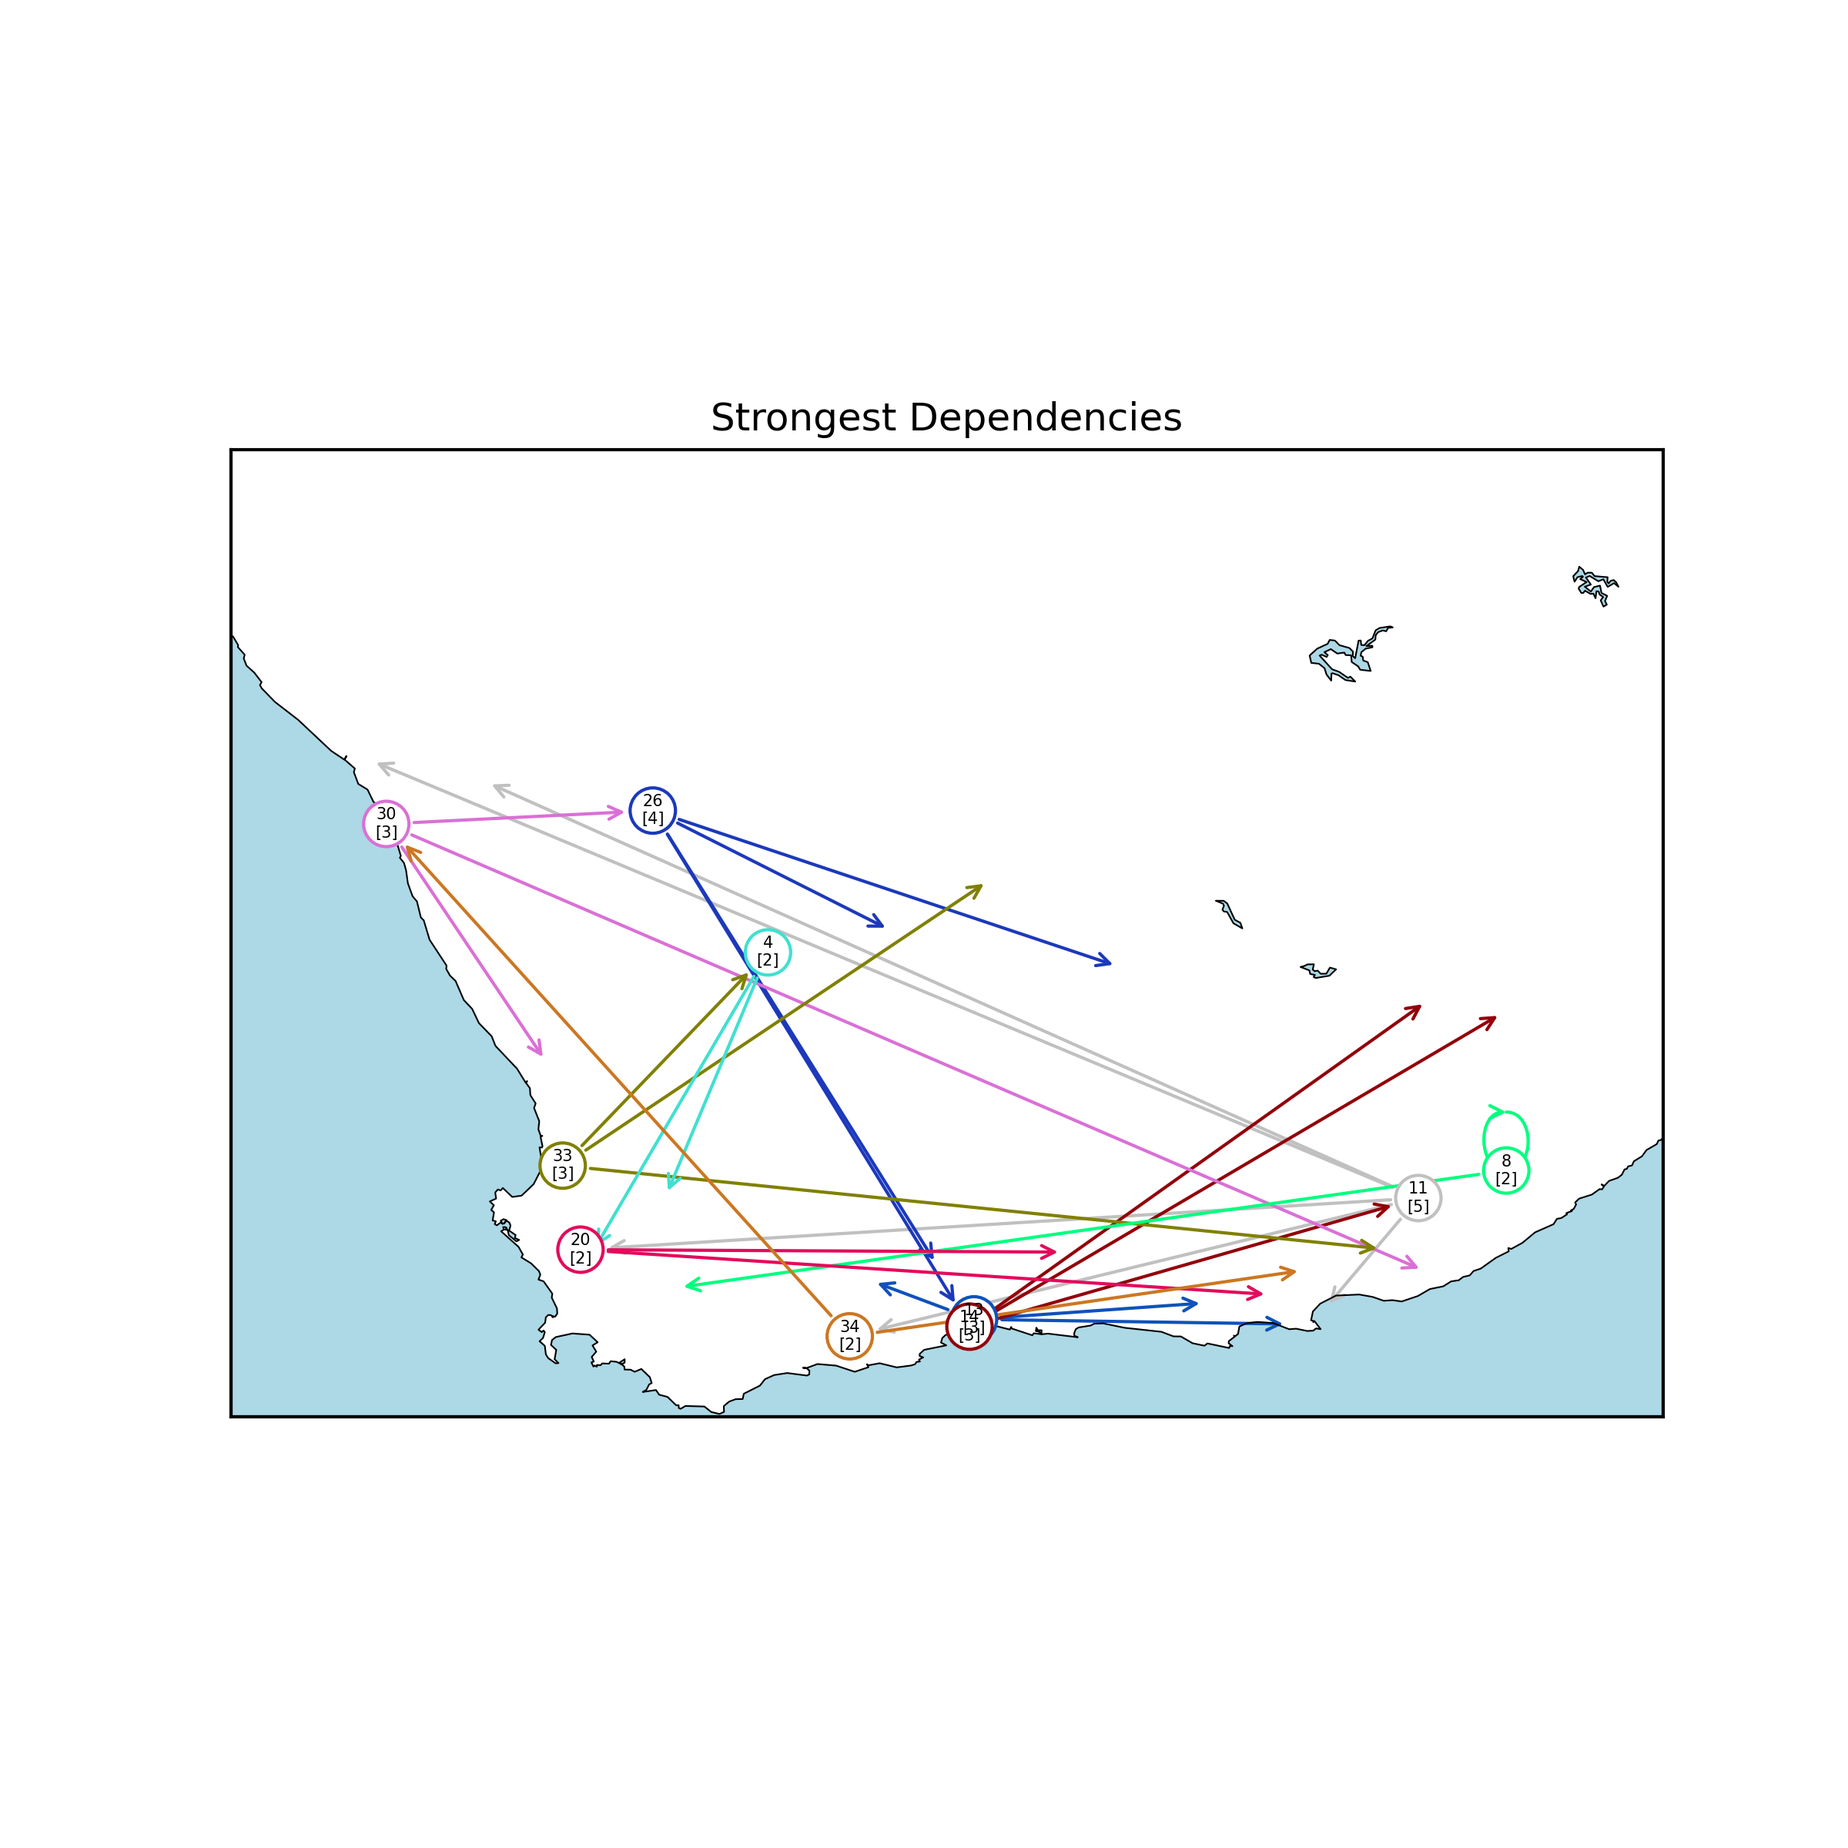
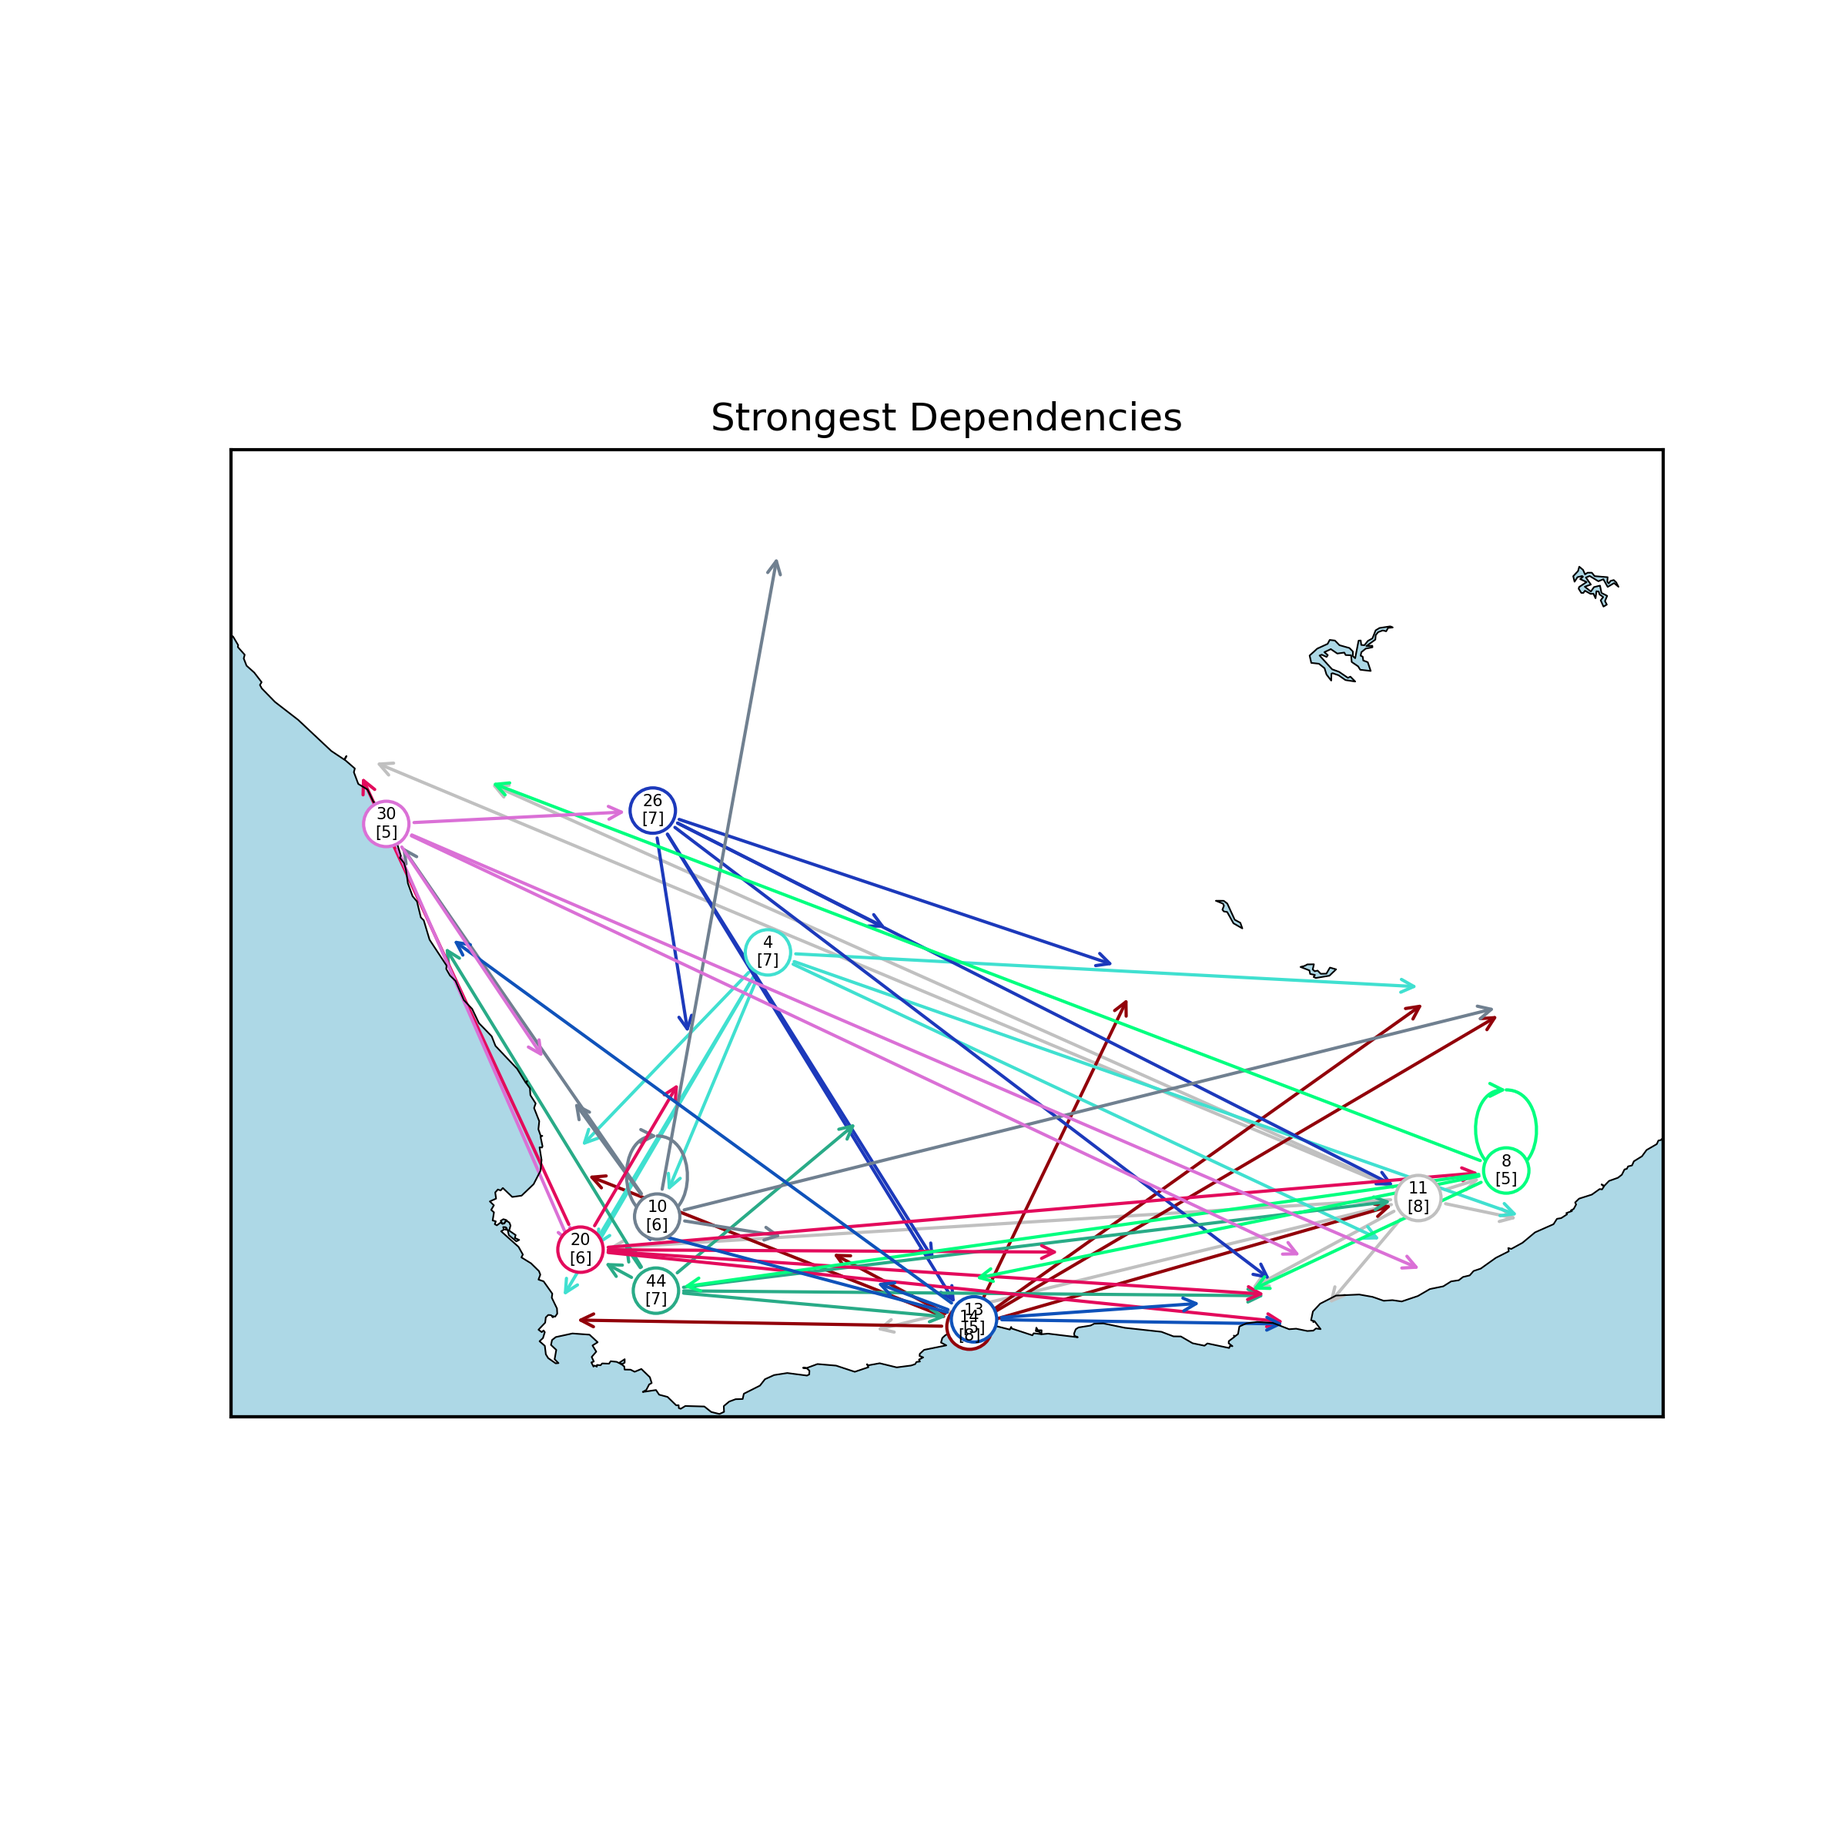
added chain vis

Changed region(s): [[0.2188, 0.4375, 0.8438, 0.75], [0.75, 0.5312, 0.7812, 0.5625]]

diff --git a/Visualisations/visualise.py b/Visualisations/visualise.py
@@ -6,6 +6,7 @@ from mpl_toolkits.basemap import Basemap
 import seaborn as sns
 import csv
 import os
+from itertools import cycle
 
 # def create_graph(adj_matrix, config):
 #     G = nx.DiGraph()
@@ -45,73 +46,6 @@ def create_graph(adj_matrix, config):
                 G.add_edge(list(G.nodes())[j], list(G.nodes())[i], weight=adj_matrix[i, j])  # Add the 'weight' attribute
 
     return G
-
-
-
-
-
-
-#this version only influencial
-# def create_graph(adj_matrix, config):
-#     G = nx.DiGraph()
-
-#     locations_path = config['locations_path']['default'] #'DataNew/Locations/Locations.csv'
-#     with open(locations_path, 'r') as file:
-#         reader = csv.reader(file)
-#         next(reader)  # Skip the header row
-#         for row in reader:
-#             number, station_name, lat, lon, province = row
-#             G.add_node(number, pos=(float(lon), float(lat)), province=province)
-
-#     for i in range(adj_matrix.shape[1]):  # Iterate over the columns instead of rows
-#         strongest_influence_indices = np.argsort(adj_matrix[i, :])[-1:]  # Enter number of influential stations
-#         for j in strongest_influence_indices:
-#             if adj_matrix[i, j] > 0:  # Use adj_matrix[i, j] instead of adj_matrix[j, i]
-#                 G.add_edge(list(G.nodes())[j], list(G.nodes())[i])  # Swap the order of nodes
-
-#     return G
-
-
-# this version only adds top x influencers to each node and adds threshold after
-# def create_graph(adj_matrix, config):
-#     G = nx.DiGraph()
-
-#     locations_path = config['locations_path']['default']
-#     with open(locations_path, 'r') as file:
-#         reader = csv.reader(file)
-#         next(reader)  # Skip the header row
-#         for row in reader:
-#             number, station_name, lat, lon, province = row
-#             G.add_node(number, pos=(float(lon), float(lat)), province=province)
-
-#     for i in range(adj_matrix.shape[1]):  # Iterate over the columns instead of rows
-#         strongest_influence_indices = np.argsort(adj_matrix[i, :])[-40:]  # Enter number of influential stations
-#         for j in strongest_influence_indices:
-#             if adj_matrix[i, j] > 0.5:  # Only add edges with weight above 0.7
-#                 G.add_edge(list(G.nodes())[j], list(G.nodes())[i])  # Swap the order of nodes
-
-#     return G
-
-#this version has threshold only
-# def create_graph(adj_matrix, config):
-#     G = nx.DiGraph()
-
-#     locations_path = config['locations_path']['default']
-#     with open(locations_path, 'r') as file:
-#         reader = csv.reader(file)
-#         next(reader)  # Skip the header row
-#         for row in reader:
-#             number, station_name, lat, lon, province = row
-#             G.add_node(number, pos=(float(lon), float(lat)), province=province)
-
-#     rows, cols = adj_matrix.shape
-#     for i in range(rows):  
-#         for j in range(cols):
-#             if adj_matrix[i, j] > 0.6:  # Only add edges with weight above 0.7
-#                 G.add_edge(list(G.nodes())[j], list(G.nodes())[i])  # Swap the order of nodes
-
-#     return G
-
 
 
 def plot_map(adj_matrix, config, split):
@@ -204,91 +138,6 @@ def plot_heatmap(adj_matrix, config, split):
     fig_heatmap.savefig(filepath)
 
 
-#zulu
-
-# import matplotlib.colors as mcolors
-# import matplotlib.cm as cm
-
-# def find_chains(G, start_node, visited=None, chain=None):
-#     if visited is None:
-#         visited = set()
-#     if chain is None:
-#         chain = []
-    
-#     visited.add(start_node)
-#     chain.append(start_node)
-#     chains = []
-
-#     for neighbor in G[start_node]:
-#         if neighbor not in visited:
-#             extended_chain = list(chain)
-#             chains.extend(find_chains(G, neighbor, visited, extended_chain))
-#         else:
-#             if len(chain) > 1:
-#                 chains.append(chain)
-    
-#     return chains
-
-# def find_chains(G, start_node, visited=None):
-#     if visited is None:
-#         visited = set()
-
-#     if start_node in visited:
-#         return []
-
-#     visited.add(start_node)
-
-#     chains_for_node = []
-#     for neighbor in G[start_node]:
-#         if G[start_node][neighbor]['weight'] > 0.7:
-#             for chain in find_chains(G, neighbor, visited.copy()):
-#                 chains_for_node.append([start_node] + chain)
-
-#     if not chains_for_node:
-#         chains_for_node.append([start_node])
-
-#     return chains_for_node
-
-
-# def plot_strongest_chains(adj_matrix, config):
-#     G = create_graph(adj_matrix, config)
-    
-#     chains = []
-#     for node in G.nodes():
-#         chains.extend(find_chains(G, node))
-
-#     # Get all weights to normalize color mapping
-#     weights = [adj_matrix[int(i), int(j)] for i, j in G.edges()]
-#     norm = mcolors.Normalize(vmin=min(weights), vmax=max(weights), clip=True)
-#     mapper = cm.ScalarMappable(norm=norm, cmap=cm.viridis)
-
-#     fig, ax = plt.subplots(figsize=(8, 8), dpi=300)
-#     node_positions = nx.get_node_attributes(G, 'pos')
-
-#     # Draw the chains
-#     for chain in chains:
-#         for i in range(len(chain) - 1):
-#             start = chain[i]
-#             end = chain[i + 1]
-#             weight = adj_matrix[int(end), int(start)]
-#             color = mapper.to_rgba(weight)
-#             nx.draw_networkx_edges(G, pos=node_positions, edgelist=[(start, end)], edge_color=[color], ax=ax)
-    
-#     # Drawing nodes
-#     nx.draw_networkx_nodes(G, pos=node_positions, ax=ax, node_color='lightblue', node_size=200)
-
-#     ax.set_title("Strongest Chains of Influence")
-    
-#     # Saving the figure
-#     directory = 'Visualisations/' + config['modelVis']['default'] + '/horizon_' + config['horizonVis']['default'] + '/' + 'geographicVis/'
-#     if not os.path.exists(directory):
-#         os.makedirs(directory)
-#     filename = 'chains_of_influence.png'
-#     filepath = os.path.join(directory, filename)
-#     fig.savefig(filepath)
-
-import networkx as nx
-import matplotlib.pyplot as plt
 
 def strong_dfs_paths(G, source, weight_threshold, visited=None, path=None):
     """Recursively finds strong paths using DFS."""
@@ -311,14 +160,10 @@ def strong_dfs_paths(G, source, weight_threshold, visited=None, path=None):
 
     return strong_paths
 
-import itertools
-from itertools import cycle
-import matplotlib
 
-
-def plot_strong_chains(adj_matrix, config):
+def plot_strong_chains(adj_matrix, config, split):
     G = create_graph(adj_matrix, config)
-    weight_threshold = 0.06  # Adjust this value based on what you consider as "strong"
+    weight_threshold = 0.6
     
     strong_paths = []
     for node in G:
@@ -336,128 +181,56 @@ def plot_strong_chains(adj_matrix, config):
     path_colors = {}
     number_of_colors = 10
     unique_colors = plt.cm.tab10(np.linspace(0, 1, number_of_colors))
-    colors_cycle = cycle(unique_colors)  # This will cycle through the colors if there are more than 10 paths
+    colors_cycle = cycle(unique_colors)
 
-    for index, path in enumerate(strong_paths):
-        signature = "-".join(path)
+    for path in strong_paths:
+        signature = "-".join(path[:2])
         if signature not in path_colors:
             path_colors[signature] = next(colors_cycle)
 
-    # Visualize the strong paths
-    pos = nx.get_node_attributes(G, 'pos')
-    plt.figure(figsize=(10, 6))  # You can adjust the size of the visualization
+    fig, ax = plt.subplots(figsize=(10, 6))
+
+    node_positions = nx.get_node_attributes(G, 'pos')
+    min_lon = min(pos[0] for pos in node_positions.values())
+    max_lon = max(pos[0] for pos in node_positions.values())
+    min_lat = min(pos[1] for pos in node_positions.values())
+    max_lat = max(pos[1] for pos in node_positions.values())
+
+    width = max_lon - min_lon
+    height = max_lat - min_lat
+
+    m = Basemap(
+        llcrnrlon=min_lon - 0.1 * width, llcrnrlat=min_lat - 0.1 * height,
+        urcrnrlon=max_lon + 0.1 * width, urcrnrlat=max_lat + 0.1 * height,
+        resolution='i', ax=ax
+    )
+    m.drawcoastlines(linewidth=0.5)
+    m.drawmapboundary(fill_color='lightblue')
+    m.fillcontinents(color='white', lake_color='lightblue')
+
+    # Convert latitude and longitude to x, y for the basemap
+    pos = {node: m(G.nodes[node]['pos'][0], G.nodes[node]['pos'][1]) for node in G.nodes()}
 
     # Draw nodes and their labels
-    nx.draw_networkx_nodes(G, pos, nodelist=strong_nodes, node_size=300, node_color="skyblue")
-    nx.draw_networkx_labels(G, pos, labels={node: node for node in strong_nodes})
+    nx.draw_networkx_nodes(G, pos, nodelist=strong_nodes, node_size=300, node_color="white", edgecolors="black", ax=ax)
+    nx.draw_networkx_labels(G, pos, labels={node: node for node in strong_nodes}, font_size=9, ax=ax)
 
     # Draw the paths with unique colors
     for path in strong_paths:
-        signature = "-".join(path)
+        signature = "-".join(path[:2])
         color = path_colors[signature]
         for i in range(len(path) - 1):
-            nx.draw_networkx_edges(G, pos, edgelist=[(path[i], path[i + 1])], edge_color=color, width=2, arrows=True, arrowsize=20)
+            nx.draw_networkx_edges(G, pos, edgelist=[(path[i], path[i + 1])], edge_color=color, width=2, arrows=True, arrowstyle='->', ax=ax)
 
-    plt.show()
-
-
-
-#colour map version
-# import matplotlib
-
-# def plot_strong_chains(adj_matrix, config):
-#     G = create_graph(adj_matrix, config)
-#     weight_threshold = 0.5  # Adjust this value based on what you consider as "strong"
     
-#     strong_paths = []
-#     for node in G:
-#         strong_paths.extend(strong_dfs_paths(G, node, weight_threshold))
-    
-#     # Filter paths with 2 or more edges (i.e., 3 or more nodes)
-#     strong_paths = [path for path in strong_paths if len(path) >= 3]
+    directory = 'Visualisations/' + config['modelVis']['default']+ '/horizon_' + config['horizonVis']['default'] + '/' + 'chains/'
+    filename = 'chains_split_' + split + '.png'
+    # Create the directory if it doesn't exist
+    if not os.path.exists(directory):
+        os.makedirs(directory)
 
-#     # Create a dictionary to count the number of paths each edge belongs to
-#     edge_counts = {}
-#     for path in strong_paths:
-#         for i in range(len(path)-1):
-#             edge = (path[i], path[i+1])
-#             edge_counts[edge] = edge_counts.get(edge, 0) + 1
-    
-#     # Extract unique nodes from the strong paths
-#     strong_nodes = set()
-#     for path in strong_paths:
-#         strong_nodes.update(path)
-
-#     # Visualize the strong paths
-#     pos = nx.get_node_attributes(G, 'pos')
-#     plt.figure(figsize=(10, 6))  # You can adjust the size of the visualization
-
-#     # Draw nodes and their labels
-#     nx.draw_networkx_nodes(G, pos, nodelist=strong_nodes, node_size=1000, node_color="skyblue")
-#     nx.draw_networkx_labels(G, pos, labels={node: node for node in strong_nodes})
-
-#     # Use a gradient colormap to color edges based on the count
-#     max_count = max(edge_counts.values())
-#     color_map = matplotlib.colormaps.get_cmap('Reds')
-
-#     for edge, count in edge_counts.items():
-#         color = color_map(count / max_count)  # This will scale the color based on the count
-#         nx.draw_networkx_edges(G, pos, edgelist=[edge], edge_color=color, width=2, arrows=True, arrowsize=20)
-
-#     fig, ax = plt.subplots(figsize=(10, 6))  # Adjust the figure size
-#     sm = plt.cm.ScalarMappable(cmap=color_map, norm=plt.Normalize(vmin=1, vmax=max_count))
-#     cbar = fig.colorbar(sm, ax=ax, orientation='vertical', pad=0.01, aspect=20)
-#     cbar.set_label('Number of Paths')
-
-#     # Draw nodes and their labels
-#     nx.draw_networkx_nodes(G, pos, ax=ax, nodelist=strong_nodes, node_size=1000, node_color="skyblue")
-#     nx.draw_networkx_labels(G, pos, labels={node: node for node in strong_nodes}, ax=ax)
-
-#     # Use a gradient colormap to color edges based on the count
-#     for edge, count in edge_counts.items():
-#         color = color_map(count / max_count)  # This will scale the color based on the count
-#         nx.draw_networkx_edges(G, pos, ax=ax, edgelist=[edge], edge_color=color, width=2, arrows=True, arrowsize=20)
-
-#     plt.show()
-
-
-
-# import itertools
-
-# def plot_strong_chains(adj_matrix, config):
-#     G = create_graph(adj_matrix, config)
-#     weight_threshold = 0.5  # Adjust this value based on what you consider as "strong"
-    
-#     strong_paths = []
-#     for node in G:
-#         strong_paths.extend(strong_dfs_paths(G, node, weight_threshold))
-    
-#     # Filter paths with 2 or more edges (i.e., 3 or more nodes)
-#     strong_paths = [path for path in strong_paths if len(path) >= 3]
-
-#     # Extract unique nodes from the strong paths
-#     strong_nodes = set()
-#     for path in strong_paths:
-#         strong_nodes.update(path)
-    
-#     # Visualize the strong paths
-#     pos = nx.get_node_attributes(G, 'pos')
-#     plt.figure(figsize=(10, 6))  # You can adjust the size of the visualization
-
-#     # Draw nodes and their labels
-#     nx.draw_networkx_nodes(G, pos, nodelist=strong_nodes, node_size=1000, node_color="skyblue")
-#     nx.draw_networkx_labels(G, pos, labels={node: node for node in strong_nodes})
-
-#     # List of colors
-#     colors = itertools.cycle(plt.cm.tab20.colors)  # Using a colormap with 20 colors, loop over if more paths
-
-#     # Draw only the strong edges with different colors for different paths
-#     for path in strong_paths:
-#         color = next(colors)  # Get the next color
-#         nx.draw_networkx_edges(G, pos, edgelist=[(path[i], path[i+1]) for i in range(len(path)-1)], edge_color=color, width=2, arrows=True, arrowsize=20)  # Adjust arrowsize as needed
-
-#     plt.show()
-
+    filepath = os.path.join(directory, filename)
+    fig.savefig(filepath)
 
 
 
@@ -469,6 +242,7 @@ def plot(config):
         matrix_path = "Results/" + config['modelVis']['default'] + "/" + config['horizonVis']['default'] + " Hour Forecast/Matrices/adjacency_matrix_" + split + ".csv"
         df = pd.read_csv(matrix_path, index_col=0)
         adj_matrix = df.values
-        plot_strong_chains(adj_matrix, config)
+
+        plot_strong_chains(adj_matrix, config, split)
         plot_map(adj_matrix, config , split)
         plot_heatmap(adj_matrix, config, split)
